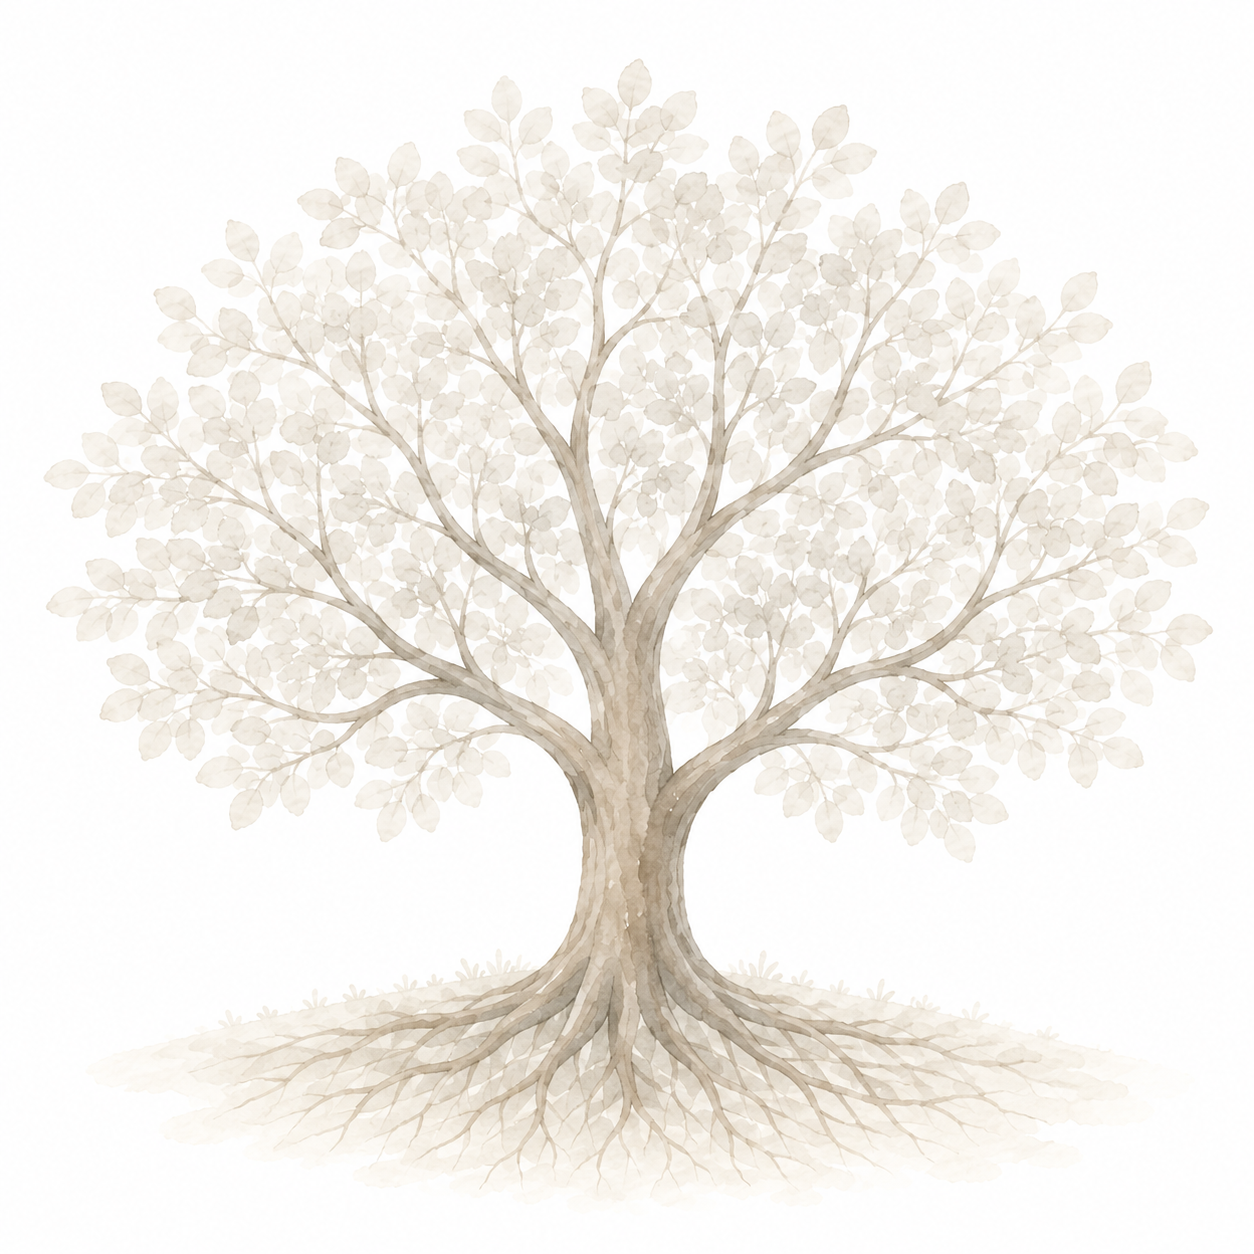
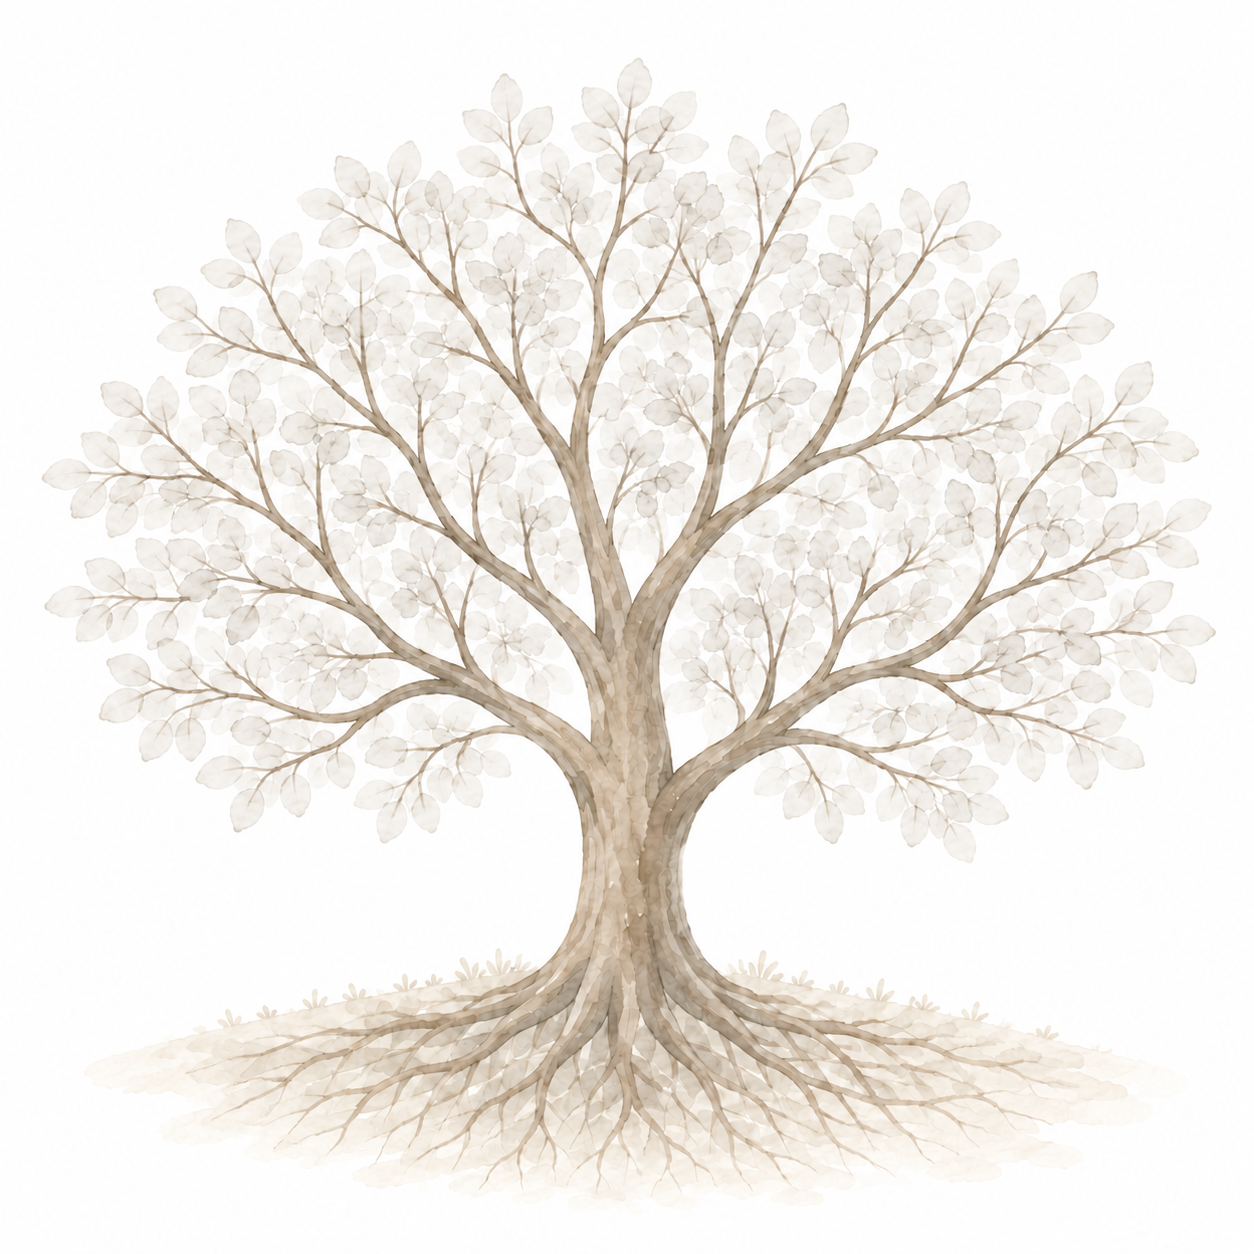
Polish tree canopy and emotion color rendering

diff --git a/app/javascript/controllers/emotion_input_controller.js b/app/javascript/controllers/emotion_input_controller.js
@@ -71,7 +71,7 @@ export default class extends Controller {
     style.setProperty("--preview-color", emotion.dataset.emotionColor)
     // Simple monotonic ranges keep even the weakest emotion visible.
     style.setProperty("--preview-radius", `${10 + Number(this.strengthTarget.value) * 0.2}%`)
-    style.setProperty("--preview-opacity", 0.2 + Number(this.afterglowTarget.value) * 0.008)
+    style.setProperty("--preview-opacity", 0.4 + Number(this.afterglowTarget.value) * 0.006)
   }
 
   openConfirmation() {

diff --git a/app/assets/stylesheets/tree.css b/app/assets/stylesheets/tree.css
@@ -79,7 +79,6 @@
 
 .tree-visual__base {
   width: 100%;
-  filter: contrast(1.05);
 }
 
 .tree-visual__color {

diff --git a/spec/requests/emotion_records_spec.rb b/spec/requests/emotion_records_spec.rb
@@ -127,7 +127,7 @@ RSpec.describe "Emotion input", type: :request do
     expect(style).to include("--tree-x: 38.25%")
     expect(style).to include("--tree-y: 41.75%")
     expect(style).to include("--tree-radius: 24.4%")
-    expect(style).to include("--tree-opacity: 0.712")
+    expect(style).to include("--tree-opacity: 0.784")
     expect(tree.element_children.pluck("class")).to eq(
       %w[tree-visual__base tree-visual__color emotion-form-page__preview emotion-form-page__hit-area]
     )

diff --git a/spec/requests/trees_spec.rb b/spec/requests/trees_spec.rb
@@ -113,7 +113,7 @@ RSpec.describe "Tree", type: :request do
     expect(style).to include("--tree-x: 38.25%")
     expect(style).to include("--tree-y: 41.75%")
     expect(style).to include("--tree-radius: 24.4%")
-    expect(style).to include("--tree-opacity: 0.712")
+    expect(style).to include("--tree-opacity: 0.784")
   end
 
   it "shows the base tree, guidance, and input link when today has no records" do
